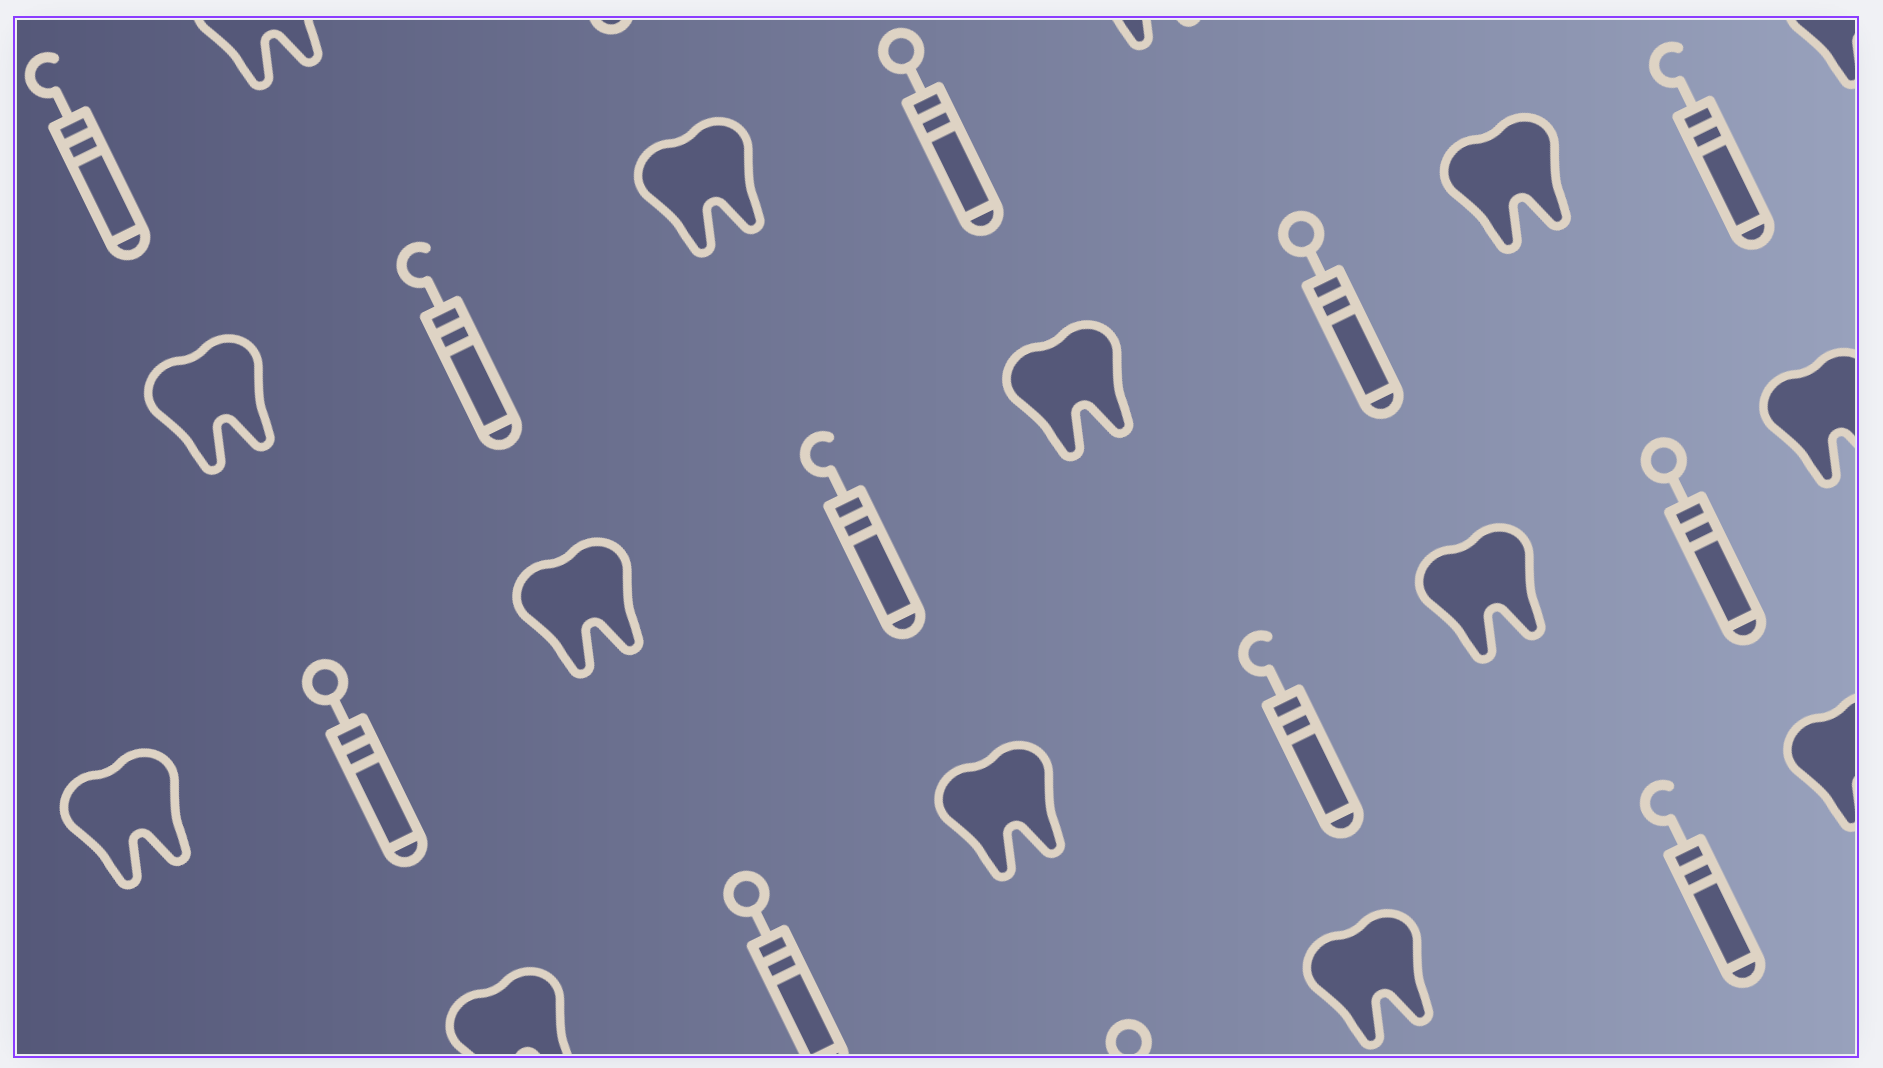
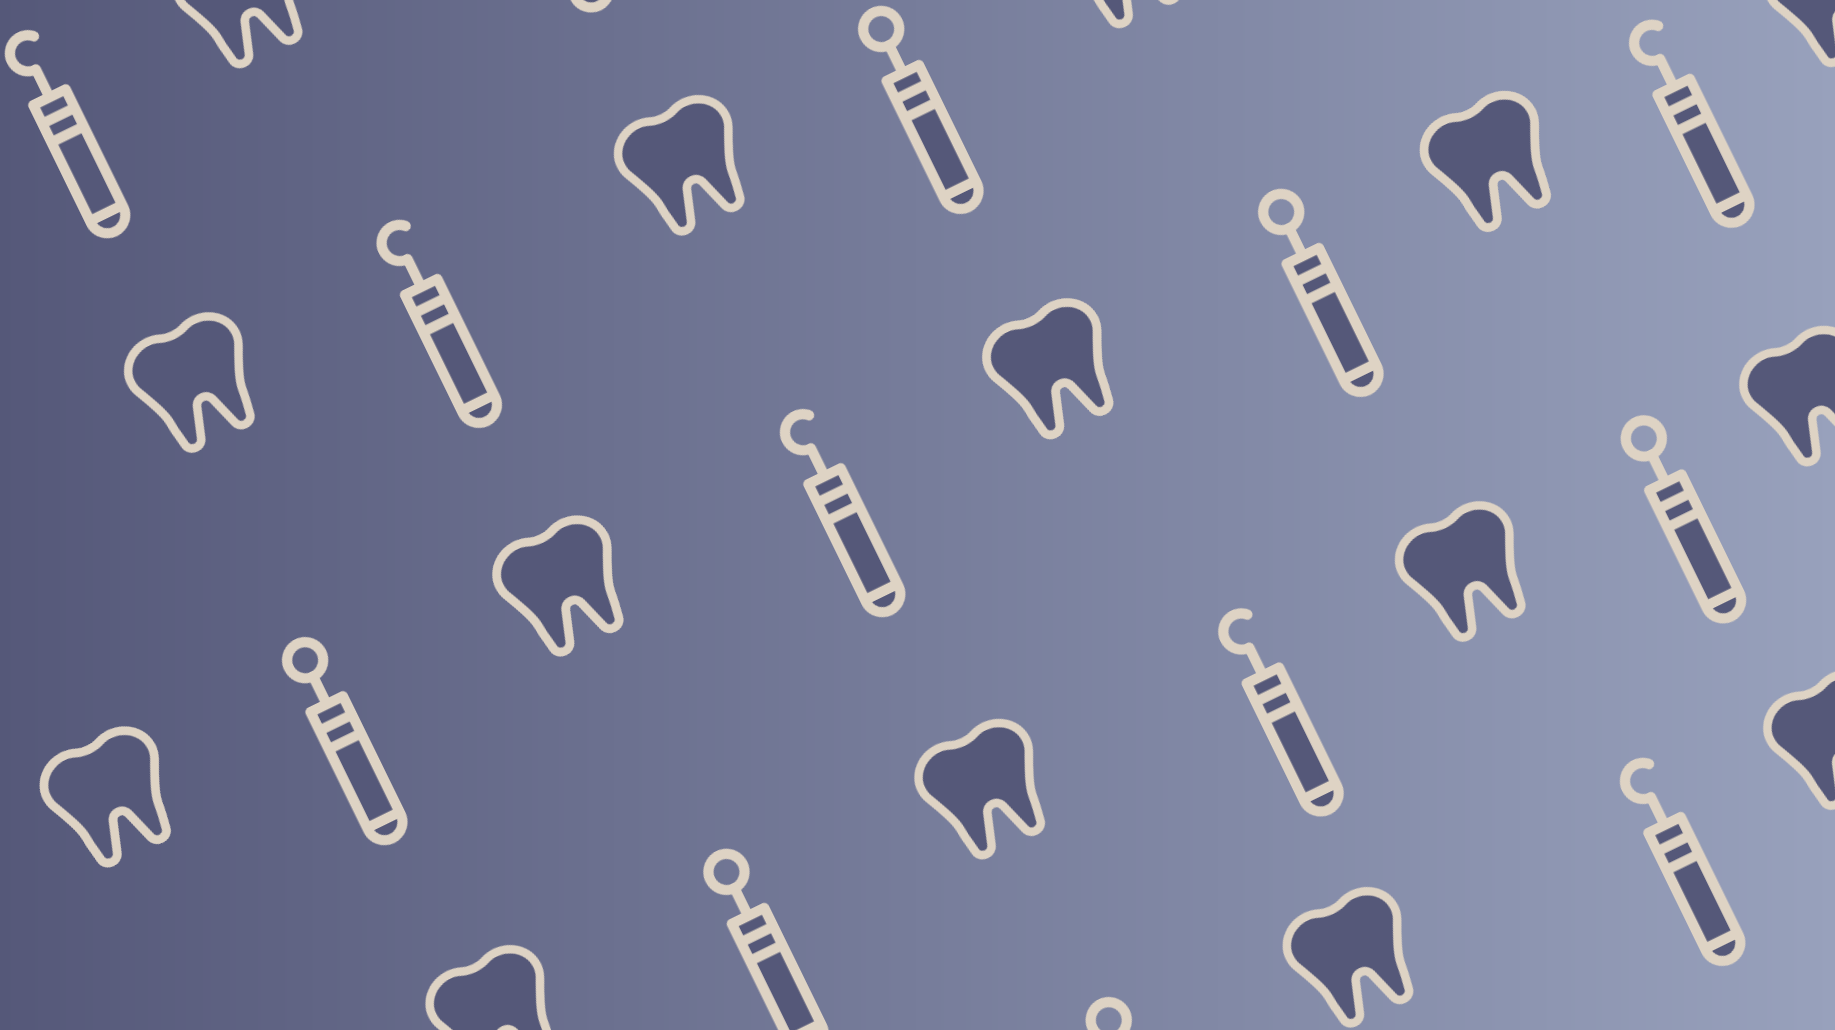
fixed background issue in which it didnt look nice on different resolutions

diff --git a/frontend/src/pages/Login.jsx b/frontend/src/pages/Login.jsx
@@ -168,11 +168,11 @@ function Login() {
     };
 
     return (
-        <div className="fixed inset-0 flex justify-center items-center bg-[url('../src/assets/dentalbackground.png')] bg-center">
+        <div className="fixed inset-0 flex justify-center items-center bg-[url('../src/assets/dentalbackground.png')] bg-center bg-cover">
 
             {/* Email Confirmation Modal - Success */}
             {showEmailConfirmation && emailConfirmationStatus === 'success' && (
-                <div className="fixed inset-0 flex justify-center items-center bg-black bg-opacity-50 z-50 bg-[url('../src/assets/dentalbackground.png')] bg-center">
+                <div className="fixed inset-0 flex justify-center items-center bg-black bg-opacity-50 z-50 bg-[url('../src/assets/dentalbackground.png')] bg-center bg-cover">
                     <div className="bg-[#555879] rounded-2xl p-16 max-w-2xl w-full mx-4 text-center shadow-2xl">
                         <h1 className="text-5xl font-bold text-green-300 mb-10">Email Confirmed!</h1>
                         <div className="mb-8">

diff --git a/frontend/src/pages/SignUp.jsx b/frontend/src/pages/SignUp.jsx
@@ -79,7 +79,7 @@ function SignUp() {
     };
 
     return (
-      <div className="fixed inset-0 flex justify-center items-center bg-[url('../src/assets/dentalbackground.png')] bg-center">
+      <div className="fixed inset-0 flex justify-center items-center bg-[url('../src/assets/dentalbackground.png')] bg-center bg-cover">
           {/* Modal */}
           {isSubmitted && (
             <div className="fixed inset-0 flex justify-center items-center bg-black bg-opacity-50 z-50 bg-[url('../src/assets/dentalbackground.png')] bg-center">

diff --git a/frontend/src/index.css b/frontend/src/index.css
@@ -1,6 +1,5 @@
 @import "tailwindcss";
 body {
-  margin: 0;
-  background: #98A1B6;     /* palette: blue-gray */
+  margin: 0;    /* palette: blue-gray */
   color: #525470;          /* optional: default text in dark slate */
 }
